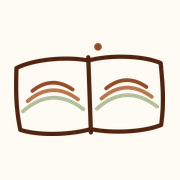
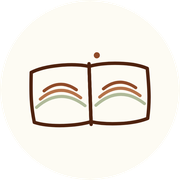
Iconos redondos con fondo transparente
Los iconos eran PNG en RGB, sin canal alpha, así que el fondo crema
llenaba todo el lienzo y el favicon se veía cuadrado. Ahora el logo del
libro (el mismo SVG de BookMark, con los colores de PALETTE) va dentro de
un círculo #FDFBF3 y fuera del círculo el alpha es 0.

- favicon.ico (nuevo): 16, 32 y 48 px, cada uno como PNG RGBA dentro del .ico.
- apple-touch-icon.png (180), icon-192.png e icon-512.png: regenerados en RGBA.
- index.html: la pestaña usa favicon.ico; icon-192.png queda como
  alternativa de alta resolución. El manifest ya apuntaba a los PNG.

Comprobado con Pillow en public/ y en dist/: modo RGBA, alpha 0 en las
cuatro esquinas y alpha 255 en el centro de cada archivo y de cada tamaño
del .ico.

Claude-Session: https://claude.ai/code/session_017PZewHhPEKyk5WUiRjwsR8

Changed region(s): [[0.0556, 0.2222, 0.9167, 0.7778]]

diff --git a/index.html b/index.html
@@ -16,7 +16,9 @@
     <meta name="theme-color" content="#B5734A" />
 
     <link rel="manifest" href="manifest.json" />
-    <link rel="icon" href="icon-192.png" type="image/png" />
+    <!-- Icono redondo con fondo transparente: favicon.ico lleva 16, 32 y 48 px -->
+    <link rel="icon" href="favicon.ico" sizes="16x16 32x32 48x48" />
+    <link rel="icon" href="icon-192.png" type="image/png" sizes="192x192" />
 
     <link rel="preconnect" href="https://fonts.googleapis.com" />
     <link rel="preconnect" href="https://fonts.gstatic.com" crossorigin />
